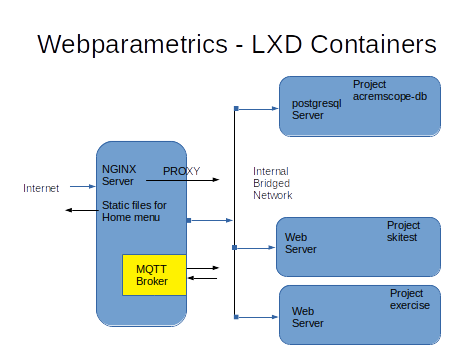
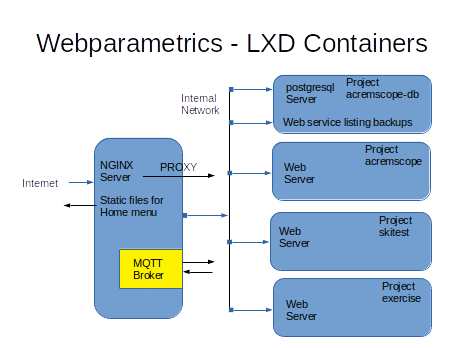
Added acremscope

diff --git a/index.html b/index.html
@@ -18,6 +18,7 @@
 <button class="w3-bar-item w3-button w3-large w3-hide-large" onclick="w3_close()">Close &times;</button>
 <p>Topics:</p>
  <div class="w3-bar-block w3-black">
+  <a href="https://webparametrics.co.uk/acremscope" class="w3-bar-item w3-button w3-blue">ACRemscope</a>
   <a href="https://webparametrics.co.uk/exercise" class="w3-bar-item w3-button w3-blue">Exercise</a>
   <a href="https://webparametrics.co.uk/test" class="w3-bar-item w3-button">Testing</a>
   <a href="https://bernie-skipole.github.io/skipole/" class="w3-bar-item w3-button">Skipole</a>
@@ -29,6 +30,8 @@
 <h3>Webparametrics</h3>
 <p>This is a development server used to test a number of projects which are still being built.</p>
 <p>The links to the left take you to areas on this server which serve each project - apart from the link to 'Skipole' which takes you to github.</p>
+<h4>ACRemscope</h4>
+<p>A test site for a remote controlled telescope.</p>
 <h4>Exercise</h4>
 <p>This is a site which provides prompts for physical exercises.</p>
 <h4>Testing</h4>

diff --git a/docs/index.md b/docs/index.md
@@ -295,6 +295,38 @@ This should be in the server block which listens on port 443
 Restart nginx with command "service nginx restart"
 
 
+## Add project acremscope
+
+On the VPS, as user bernard.
+
+lxc launch ubuntu:20.04 acremscope
+
+lxc list
+
+This gives container ip address 10.105.192.83
+
+lxc exec acremscope -- /bin/bash
+
+apt-get update
+
+apt-get upgrade
+
+apt-get install python3-pip
+
+And to setup the container, follow repository acremscope
+
+and as root on the VPS, add the following location to the nginx configuration
+/etc/nginx/sites-available/default
+
+     location /acremscope {
+     proxy_pass http://10.105.192.83:8000;
+     }
+
+This should be in the server block which listens on port 443
+
+Restart nginx with command "service nginx restart"
+
+
 ## Continue with container acremscope-db
 
 On the VPS, as user bernard.
